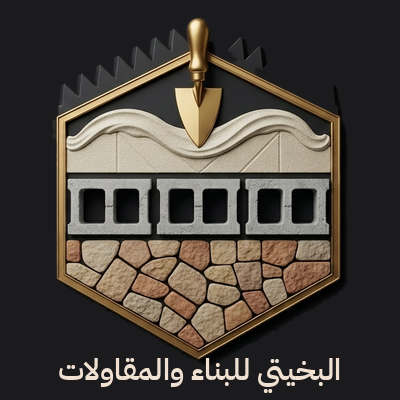
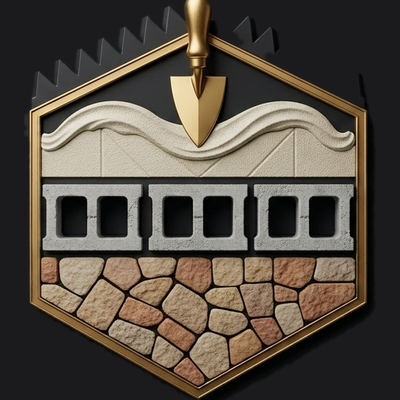
شعار المتجر والموقع بلا اسم لجلاء القراءة في المقاسات الصغيرة
النسخة الكبيرة تبقى بالاسم في الهوية. هيدر الموقع 46 بكسل.

diff --git a/موقع/css/site.css b/موقع/css/site.css
@@ -132,8 +132,8 @@ button, input, select, textarea { font: inherit; color: inherit; }
   min-width: 0;
 }
 .brand img {
-  width: 40px;
-  height: 40px;
+  width: 46px;
+  height: 46px;
   flex: none;
 }
 .brand-copy {
